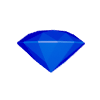
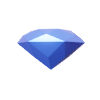
shop blocks

Changed region(s): [[0.15, 0.27, 0.87, 0.75]]

diff --git a/classes.py b/classes.py
@@ -36,10 +36,16 @@ class Other(pygame.sprite.Sprite):
 		self.endtime=0
 		self.imgs=imgs
 	def update(self):
-		self.count=(self.count+2)%60
+		if "diamond" in self.name:
+			self.count=(self.count+1)%120
+		else:
+			self.count=(self.count+2)%60
 	def show(self,screen,camera,now):
 		if self.starttime<now and self.endtime>now:
-			screen.blit(self.imgs[int(self.count*len(self.imgs)/60)],(self.rect.x-camera[0],self.rect.y-camera[1],50,50))
+			if "diamond" in self.name:
+				screen.blit(self.imgs[int(self.count*len(self.imgs)/120)],(self.rect.x-camera[0],self.rect.y-camera[1],50,50))
+			else:
+				screen.blit(self.imgs[int(self.count*len(self.imgs)/60)],(self.rect.x-camera[0],self.rect.y-camera[1],50,50))
 class Wall(pygame.sprite.Sprite):
 	def __init__(self,color,blocks,bricksize):
 		super().__init__()

diff --git a/game.py b/game.py
@@ -423,6 +423,12 @@ def goto_shop():
 			if e.type == pygame.QUIT:
 				inshop=False
 		screen.fill((255,100,0))
+		pygame.draw.rect(screen,(0,255,0),(width/7,height/5,width/7,height/5))
+		pygame.draw.rect(screen,(0,255,0),(width*3/7,height/5,width/7,height/5))
+		pygame.draw.rect(screen,(0,255,0),(width*5/7,height/5,width/7,height/5))
+		pygame.draw.rect(screen,(0,255,0),(width/7,height*3/5,width/7,height/5))
+		pygame.draw.rect(screen,(0,255,0),(width*3/7,height*3/5,width/7,height/5))
+		pygame.draw.rect(screen,(0,255,0),(width*5/7,height*3/5,width/7,height/5))
 		screen.blit(shoptitle,shoptitlerect)
 		pygame.display.update()
 		clock.tick(60)

diff --git a/assets.py b/assets.py
@@ -25,8 +25,8 @@ for i in range(5):
 	assets["coins"].append(im)
 
 assets["diamonds"]=[]
-for i in range(5):
-	im=pygame.image.load('diamonds'+os.path.sep+str(i)+'.png')
+for i in range(49):
+	im=pygame.image.load('diamonds'+os.path.sep+str(i+1)+'.png')
 	im=pygame.transform.scale(im,(coinsize*2,coinsize*2))
 	assets["diamonds"].append(im)
 
